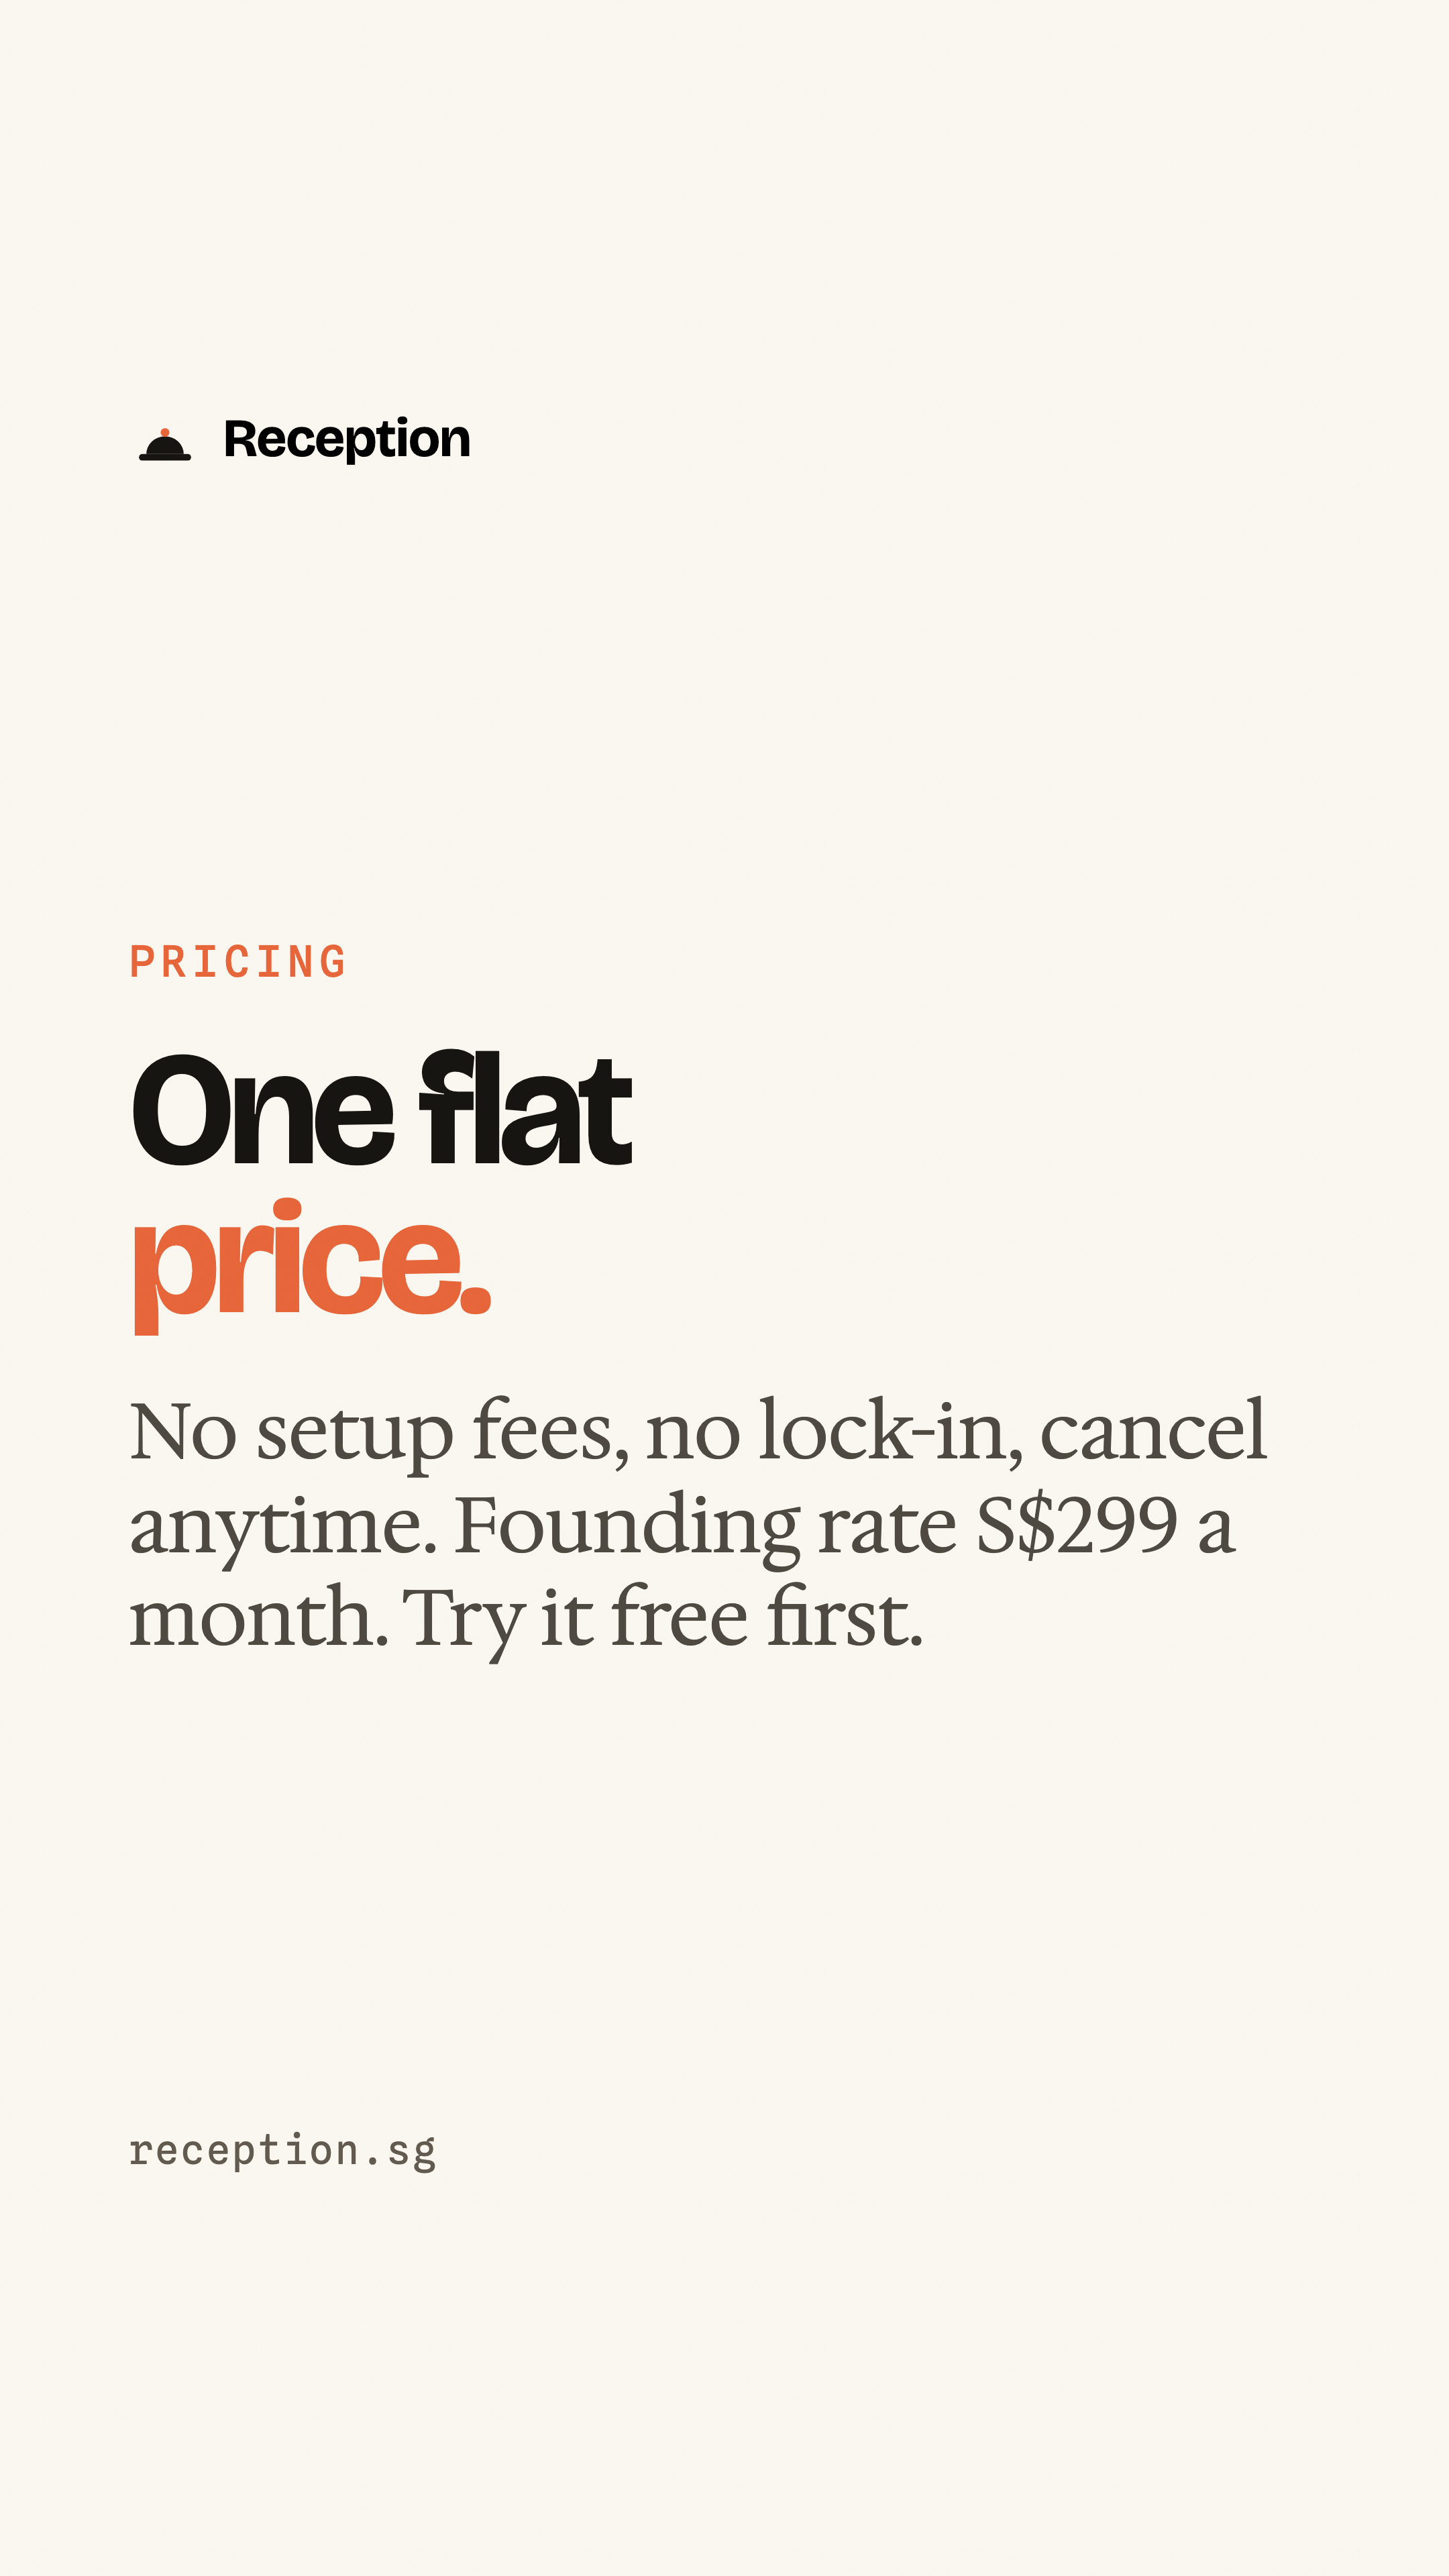
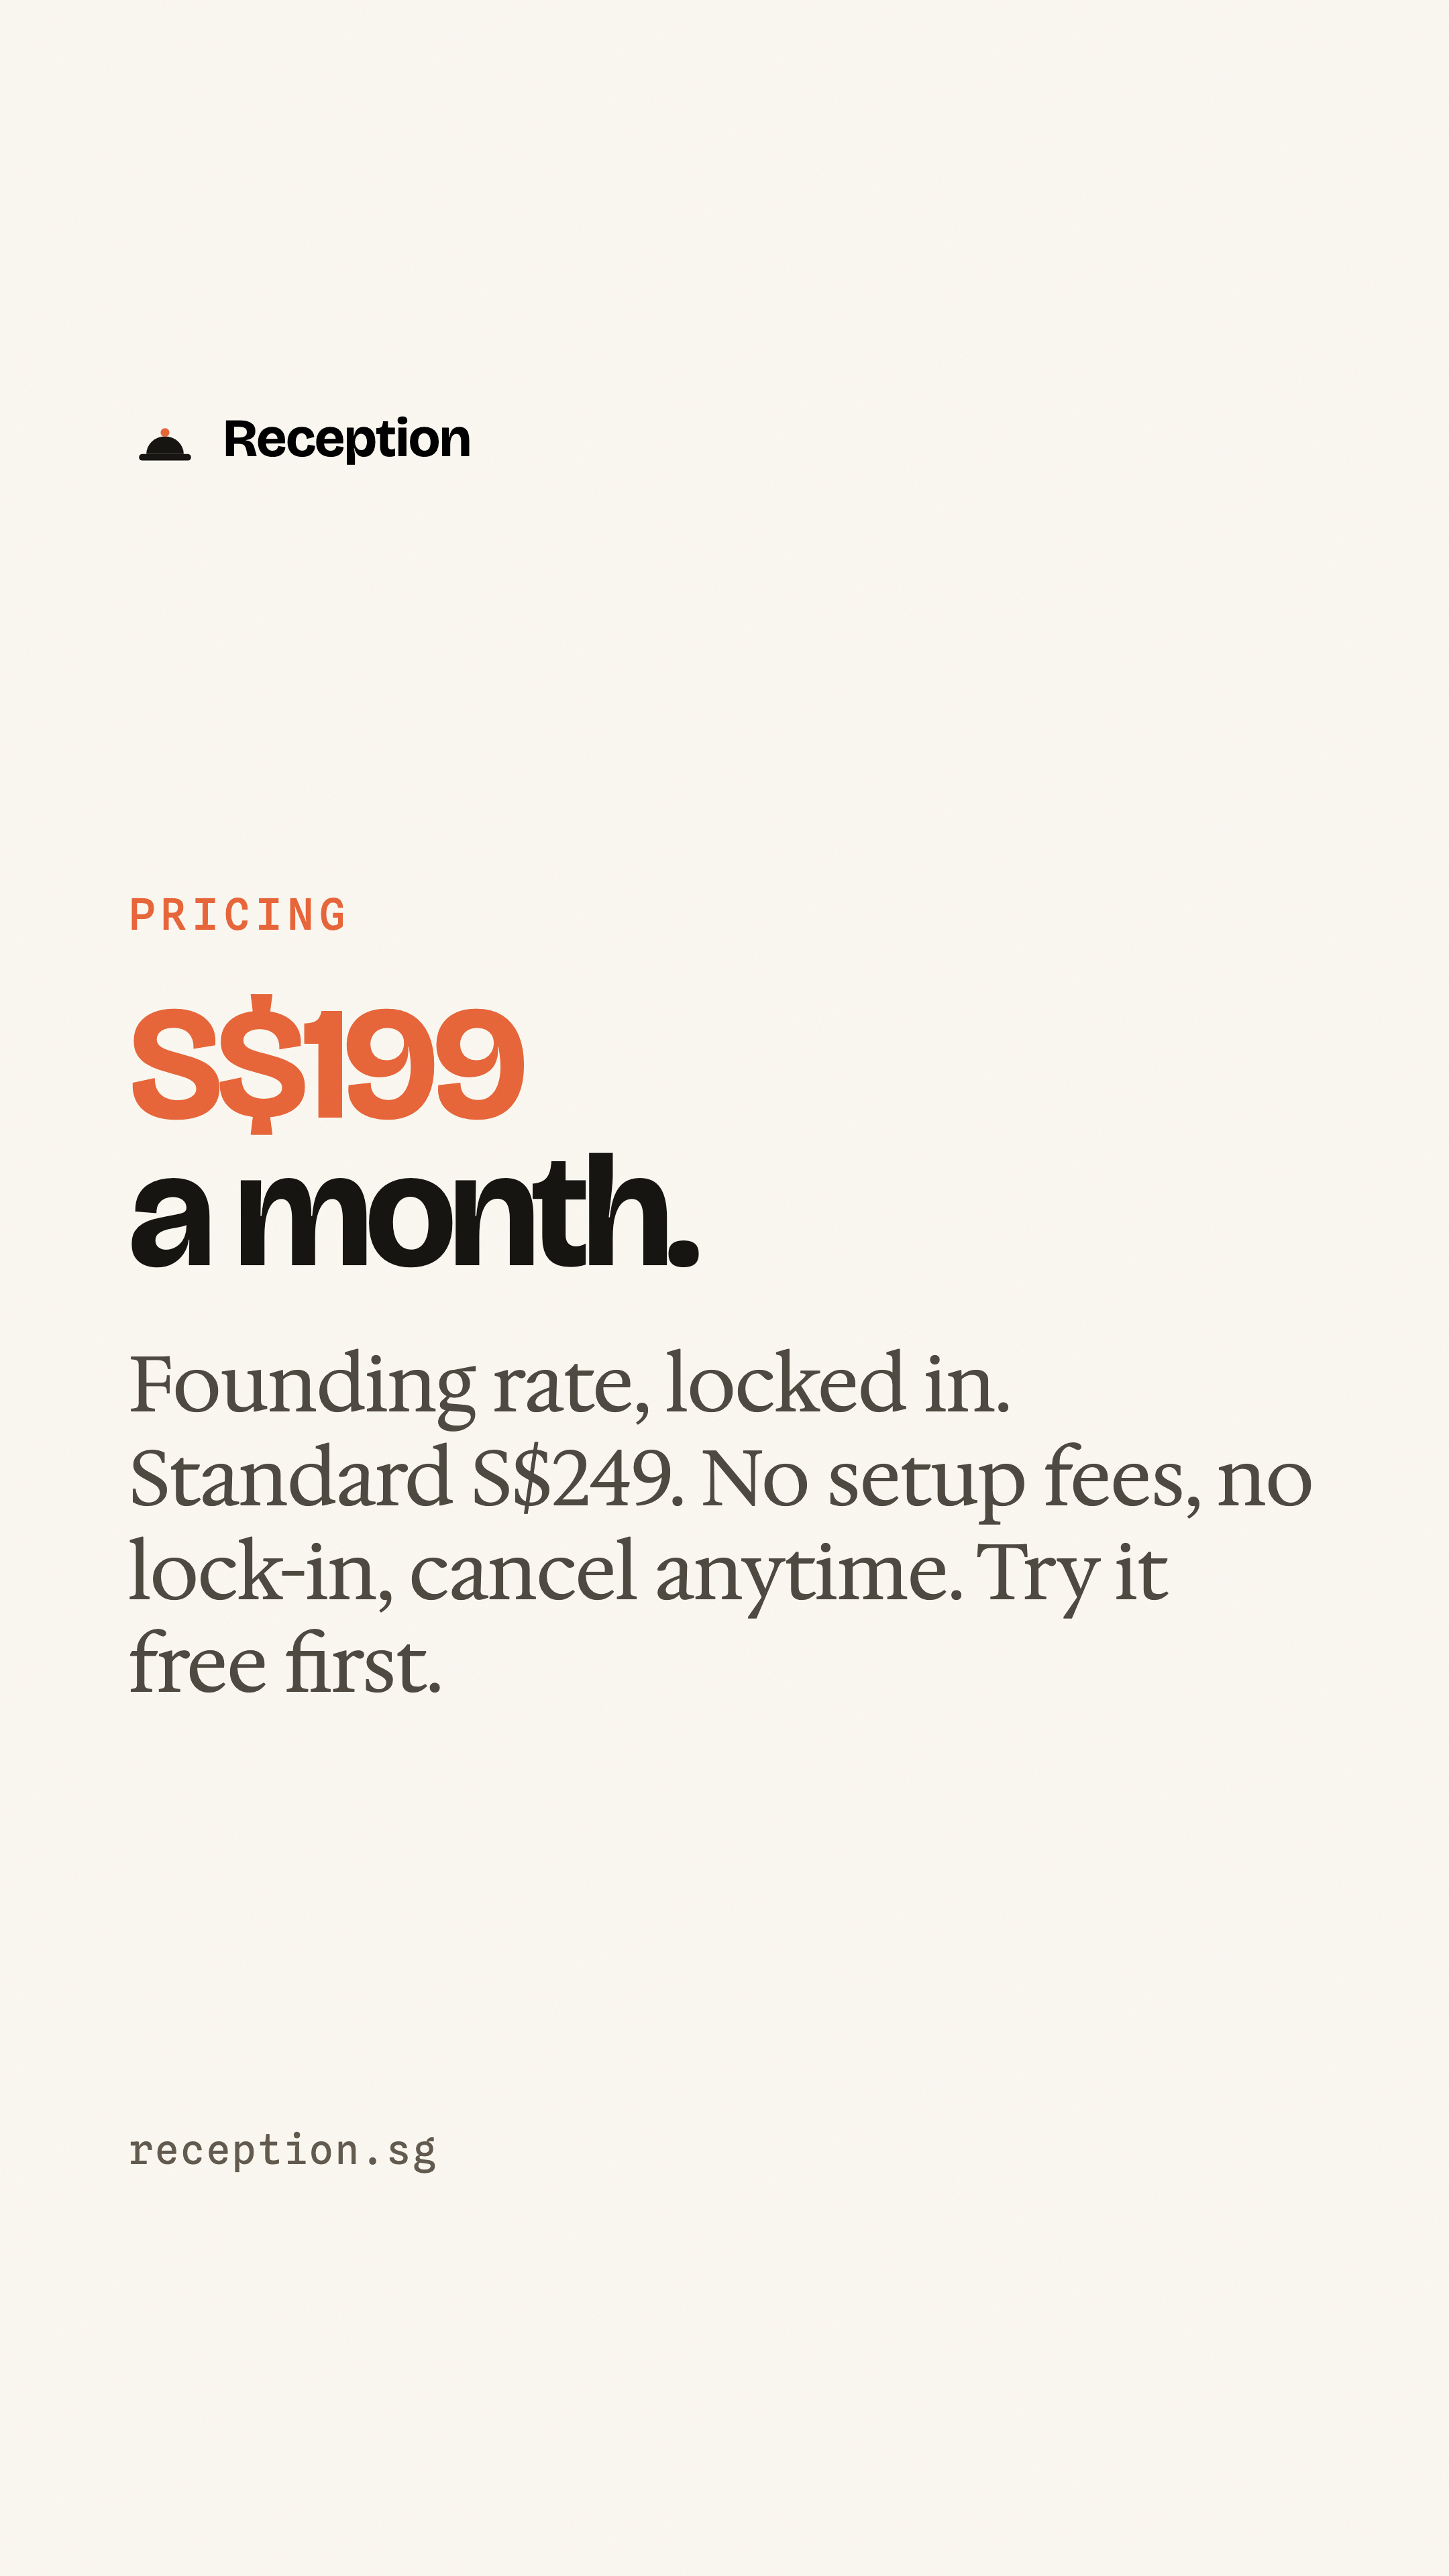
Reception IG: price update to S$199 founding / S$249 standard
Claude-Session: https://claude.ai/code/session_01G12RdAGFni8p47a8s6CLLU

Changed region(s): [[0.0931, 0.3438, 0.8995, 0.6562]]

diff --git a/receptionig/index.html b/receptionig/index.html
@@ -187,7 +187,7 @@ Try it free at reception.sg. You only pay once you love it.
       <div class="slide"><img src="media/story-1.png?v=2"><a href="media/story-1.png?v=2" download="reception-story-1-start.png">Start &darr;</a></div>
       <div class="slide"><img src="media/story-2.png?v=2"><a href="media/story-2.png?v=2" download="reception-story-2-see.png">See it &darr;</a></div>
       <div class="slide"><img src="media/story-3.png?v=2"><a href="media/story-3.png?v=2" download="reception-story-3-results.png">Results &darr;</a></div>
-      <div class="slide"><img src="media/story-4.png?v=2"><a href="media/story-4.png?v=2" download="reception-story-4-pricing.png">Pricing &darr;</a></div>
+      <div class="slide"><img src="media/story-4.png?v=3"><a href="media/story-4.png?v=3" download="reception-story-4-pricing.png">Pricing &darr;</a></div>
       <div class="slide"><img src="media/story-5.png?v=2"><a href="media/story-5.png?v=2" download="reception-story-5-faq.png">FAQ &darr;</a></div>
       <div class="slide"><img src="media/story-6.png?v=2"><a href="media/story-6.png?v=2" download="reception-story-6-tryfree.png">Try free &darr;</a></div>
     </div>